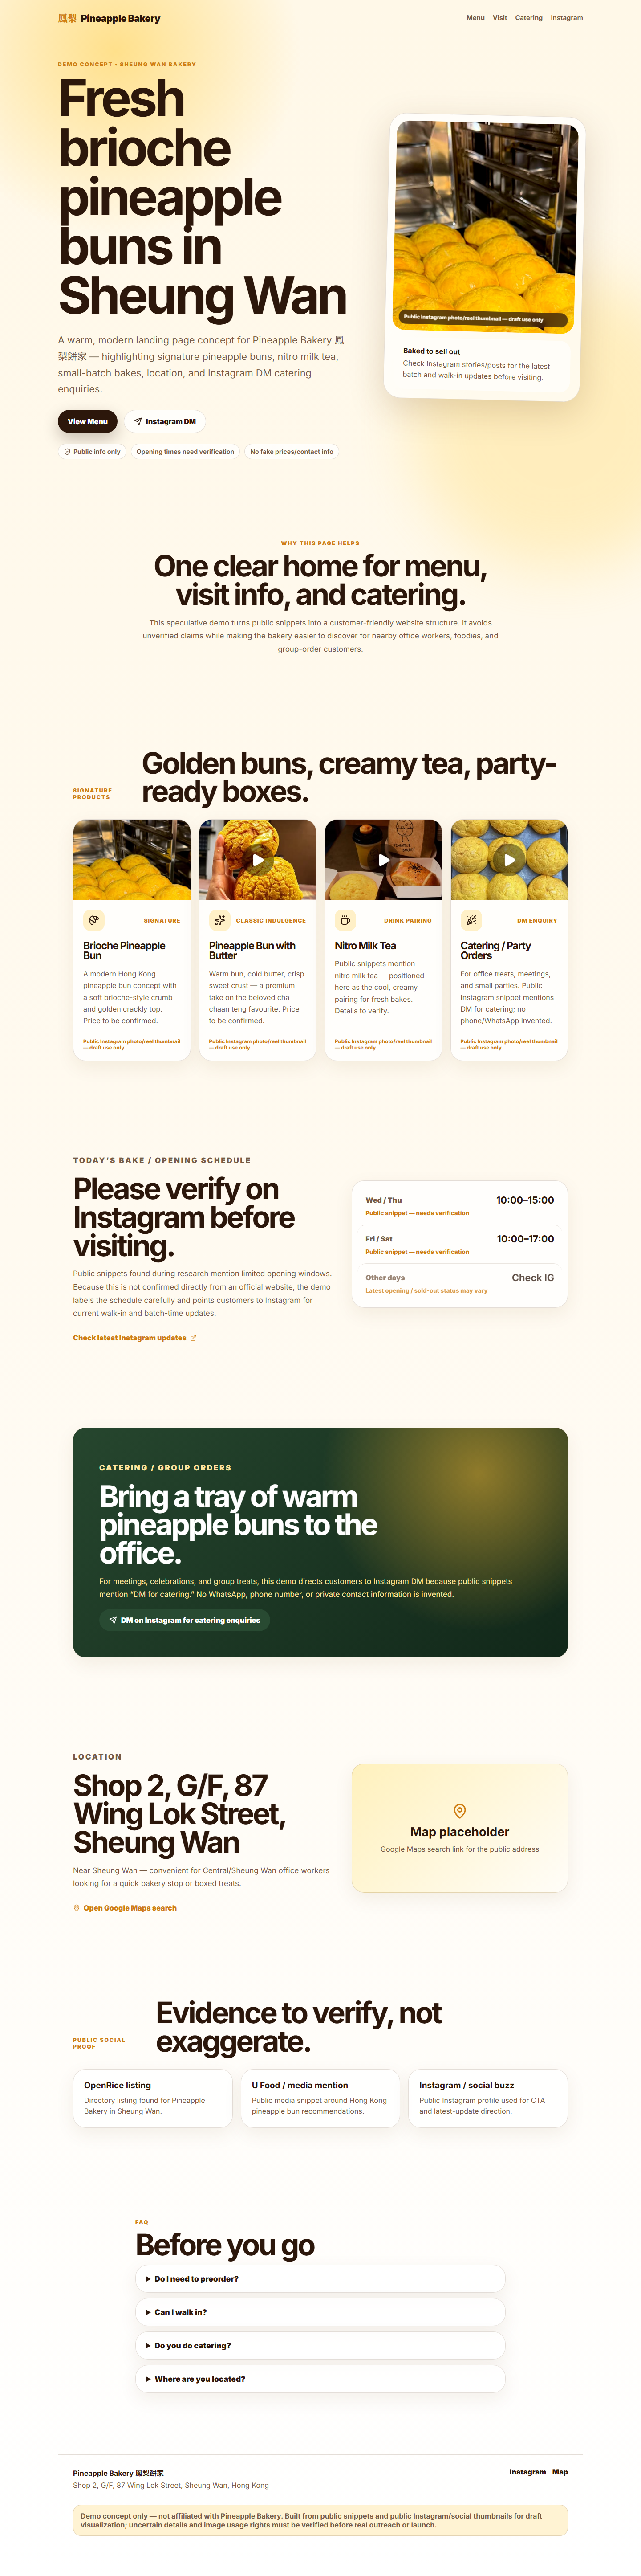
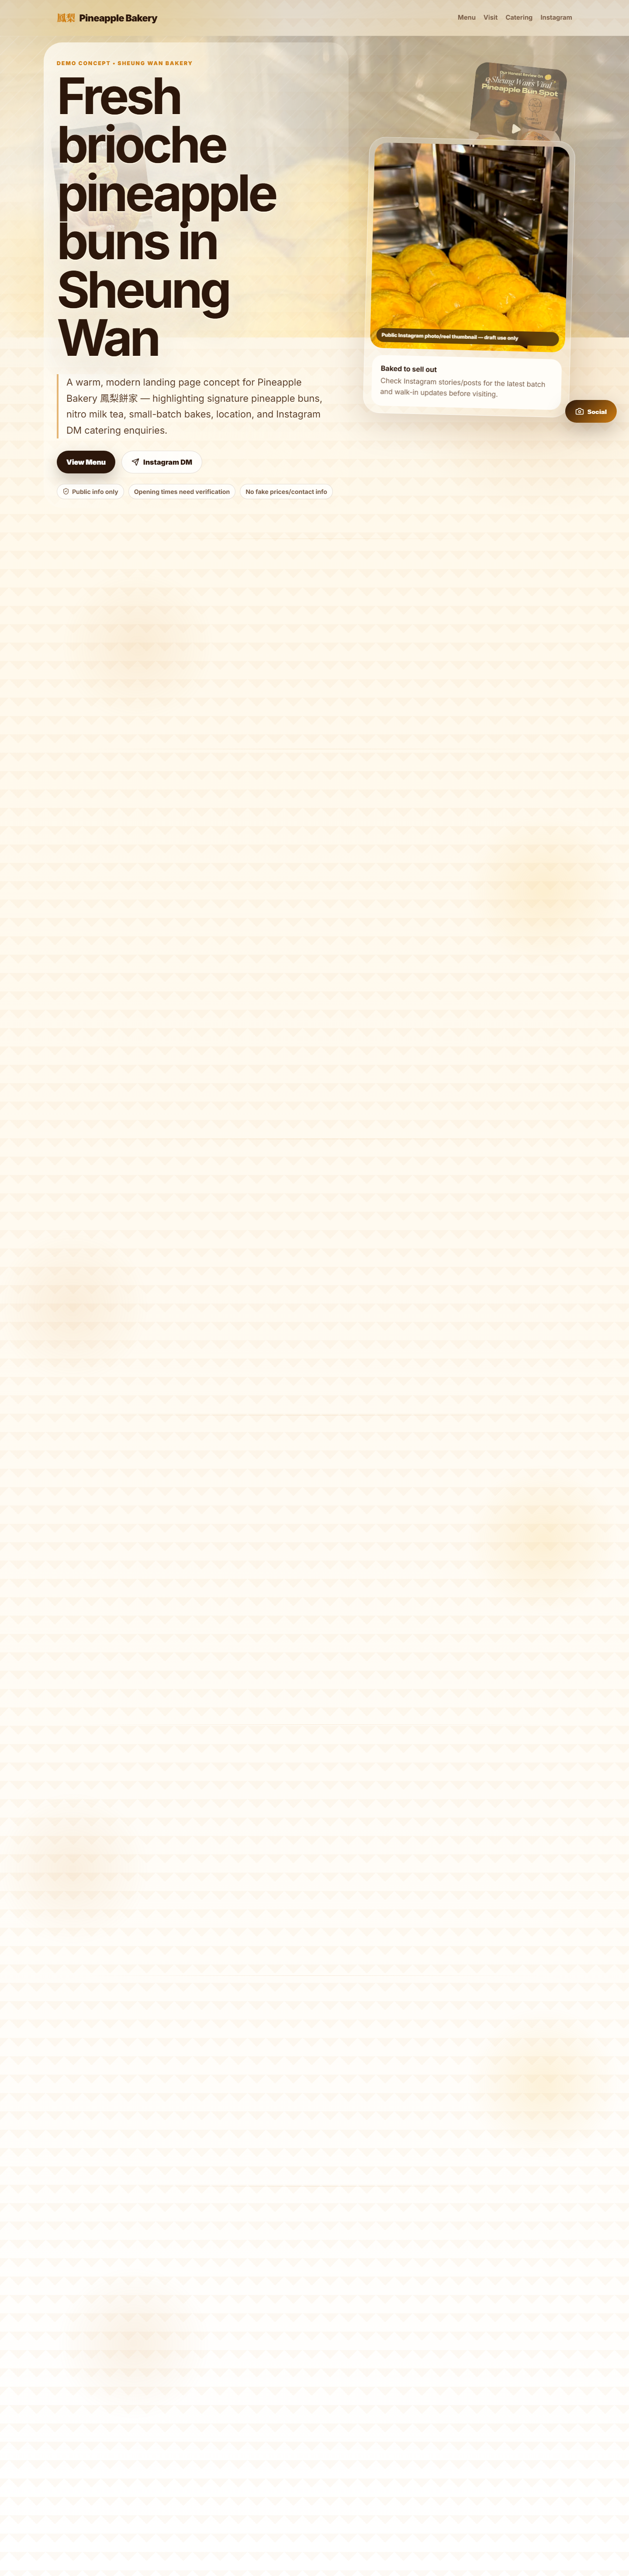
feat: add atmospheric bakery homepage and social menu

diff --git a/src/styles.css b/src/styles.css
@@ -15,12 +15,40 @@
 
 * { box-sizing: border-box; }
 html { scroll-behavior: smooth; }
-body { margin: 0; font-family: Inter, system-ui, sans-serif; color: var(--ink); background: radial-gradient(circle at 18% 2%, #ffe08b 0, transparent 26rem), linear-gradient(180deg, var(--cream) 0%, #fffaf0 48%, #fff 100%); }
+body { margin: 0; font-family: Inter, system-ui, sans-serif; color: var(--ink); background:
+  radial-gradient(circle at 18% 2%, rgba(255, 224, 139, .72) 0, transparent 25rem),
+  radial-gradient(circle at 86% 14%, rgba(207, 125, 18, .16) 0, transparent 22rem),
+  linear-gradient(135deg, rgba(207,125,18,.045) 25%, transparent 25%) 0 0 / 42px 42px,
+  linear-gradient(225deg, rgba(207,125,18,.045) 25%, transparent 25%) 0 0 / 42px 42px,
+  linear-gradient(180deg, var(--cream) 0%, #fffaf0 48%, #fff 100%); }
 a { color: inherit; }
 main { overflow: hidden; }
 
-.hero { min-height: 92vh; padding: 24px clamp(18px, 5vw, 68px) 72px; position: relative; }
-.hero::after { content: ''; position: absolute; inset: auto -10vw -12vw auto; width: 46vw; height: 46vw; background: #ffd75f; filter: blur(70px); opacity: .32; border-radius: 50%; z-index: -1; }
+.social-float { position: fixed; right: clamp(14px, 3vw, 28px); bottom: clamp(16px, 3vw, 28px); z-index: 40; display: grid; justify-items: end; gap: 10px; }
+.social-trigger { border: 0; cursor: pointer; min-width: 118px; height: 52px; display: inline-flex; align-items: center; justify-content: center; gap: 8px; border-radius: 999px; color: #fffaf0; background: linear-gradient(135deg, #2c170b, #cf7d12); box-shadow: 0 18px 48px rgba(44,23,11,.28); font-weight: 900; letter-spacing: -.01em; }
+.social-menu { width: min(310px, calc(100vw - 32px)); padding: 10px; border-radius: 26px; background: rgba(255,253,248,.9); border: 1px solid rgba(88,48,17,.14); box-shadow: 0 24px 80px rgba(44,23,11,.22); backdrop-filter: blur(18px); opacity: 0; transform: translateY(12px) scale(.96); pointer-events: none; transform-origin: bottom right; transition: opacity .22s ease, transform .22s cubic-bezier(.2,.8,.2,1); }
+.social-float:hover .social-menu, .social-float:focus-within .social-menu { opacity: 1; transform: translateY(0) scale(1); pointer-events: auto; }
+.social-float:hover .social-trigger, .social-float:focus-within .social-trigger { box-shadow: 0 22px 62px rgba(207,125,18,.32); }
+.social-menu a { display: grid; grid-template-columns: 38px 1fr; gap: 10px; align-items: center; padding: 10px; border-radius: 18px; text-decoration: none; color: var(--ink); }
+.social-menu a:hover, .social-menu a:focus { background: rgba(242,182,50,.15); outline: none; }
+.social-menu a > svg { color: var(--deep-gold); }
+.social-menu span { display: grid; gap: 2px; }
+.social-menu strong { font-size: .95rem; }
+.social-menu small { color: var(--muted); font-weight: 700; line-height: 1.25; }
+
+.hero { min-height: 92vh; padding: 24px clamp(18px, 5vw, 68px) 72px; position: relative; isolation: isolate; background:
+  linear-gradient(180deg, rgba(44,23,11,.14), rgba(44,23,11,.02) 38%, transparent 100%),
+  radial-gradient(circle at 24% 30%, rgba(255,255,255,.58) 0, transparent 22rem),
+  radial-gradient(circle at 72% 22%, rgba(242,182,50,.28) 0, transparent 24rem); }
+.hero::before { content: ''; position: absolute; inset: 82px 0 auto; height: min(74vh, 690px); z-index: -3; background:
+  linear-gradient(90deg, rgba(255,248,232,.88), rgba(255,248,232,.52) 34%, rgba(255,248,232,.14) 60%, rgba(44,23,11,.32)),
+  url('/pineapple-bakery-demo/social/official-brioche-pineapple-buns.jpg') center / cover;
+  opacity: .26; filter: saturate(1.05) contrast(1.02); }
+.hero::after { content: ''; position: absolute; inset: 82px 0 auto; height: min(74vh, 690px); z-index: -2; background:
+  radial-gradient(circle at 18% 50%, rgba(255,253,248,.82), transparent 22rem),
+  radial-gradient(circle at 12% 72%, rgba(242,182,50,.38), transparent 16rem),
+  radial-gradient(circle at 84% 22%, rgba(255,248,232,.72), transparent 17rem),
+  repeating-linear-gradient(135deg, rgba(255,255,255,.18) 0 2px, transparent 2px 30px); mix-blend-mode: soft-light; }
 .nav { display: flex; align-items: center; justify-content: space-between; gap: 24px; max-width: 1180px; margin: 0 auto 70px; }
 .brand { text-decoration: none; font-weight: 900; letter-spacing: -.03em; font-size: clamp(1.1rem, 2vw, 1.35rem); }
 .brand span { font-family: 'Noto Serif HK', serif; color: var(--deep-gold); margin-right: 6px; }
@@ -28,13 +56,20 @@ main { overflow: hidden; }
 .nav-links a { text-decoration: none; }
 .nav-links a:hover { color: var(--deep-gold); }
 
-.hero-grid { max-width: 1180px; margin: 0 auto; display: grid; grid-template-columns: minmax(0, 1.08fr) minmax(310px, .72fr); gap: clamp(28px, 6vw, 74px); align-items: center; }
+.hero-grid { max-width: 1180px; margin: 0 auto; display: grid; grid-template-columns: minmax(0, 1.02fr) minmax(310px, .76fr); gap: clamp(28px, 6vw, 74px); align-items: center; position: relative; z-index: 2; }
+.hero-bg-gallery { pointer-events: none; position: absolute; inset: 120px max(18px, 5vw) auto; max-width: 1180px; height: min(64vh, 600px); margin: 0 auto; left: 50%; transform: translateX(-50%); width: calc(100% - clamp(36px, 10vw, 136px)); z-index: -1; }
+.tile { position: absolute; width: clamp(92px, 16vw, 210px); height: clamp(128px, 22vw, 290px); object-fit: cover; border-radius: 28px; box-shadow: 0 24px 80px rgba(44,23,11,.20); opacity: .46; filter: saturate(1.02); }
+.tile-one { left: 0; top: 28%; transform: rotate(-7deg); }
+.tile-two { right: 2%; top: 5%; transform: rotate(6deg); }
+.tile-three { right: 16%; bottom: 0; transform: rotate(-4deg); opacity: .38; }
+.hero-copy { max-width: 780px; position: relative; }
+.hero-copy::before { content: ''; position: absolute; inset: -28px -34px -20px -30px; z-index: -1; border-radius: 42px; background: linear-gradient(105deg, rgba(255,253,248,.76), rgba(255,248,232,.38) 56%, rgba(255,248,232,0)); filter: blur(.2px); }
 .eyebrow, .section-kicker { color: var(--deep-gold); font-weight: 900; text-transform: uppercase; letter-spacing: .16em; font-size: .76rem; }
 h1, h2, h3 { margin: 0; letter-spacing: -.055em; line-height: .96; }
-h1 { font-size: clamp(3.2rem, 8vw, 7.8rem); max-width: 820px; }
+h1 { font-size: clamp(3.2rem, 8vw, 7.8rem); max-width: 820px; text-shadow: 0 2px 0 rgba(255,248,232,.9), 0 10px 34px rgba(255,248,232,.92), 0 24px 70px rgba(44,23,11,.18); }
 h2 { font-size: clamp(2rem, 5vw, 4.15rem); }
 h3 { font-size: 1.45rem; }
-.subhead { color: var(--muted); font-size: clamp(1.05rem, 2vw, 1.35rem); line-height: 1.7; max-width: 700px; margin: 28px 0; }
+.subhead { color: #553722; font-size: clamp(1.05rem, 2vw, 1.35rem); line-height: 1.7; max-width: 700px; margin: 28px 0; padding-left: 18px; border-left: 4px solid rgba(207,125,18,.55); background: linear-gradient(90deg, rgba(255,253,248,.74), rgba(255,248,232,.20), rgba(255,248,232,0)); text-shadow: 0 1px 12px rgba(255,253,248,.95); }
 .cta-row { display: flex; flex-wrap: wrap; gap: 14px; margin: 28px 0 24px; }
 .button { border: 0; border-radius: 999px; padding: 15px 22px; font-weight: 900; text-decoration: none; display: inline-flex; align-items: center; justify-content: center; gap: 9px; transition: transform .2s ease, box-shadow .2s ease; }
 .button:hover { transform: translateY(-2px); }
@@ -44,19 +79,24 @@ h3 { font-size: 1.45rem; }
 .trust-strip { display: flex; flex-wrap: wrap; gap: 10px; color: var(--muted); font-size: .88rem; font-weight: 700; }
 .trust-strip span { display: inline-flex; align-items: center; gap: 6px; background: rgba(255,255,255,.72); border: 1px solid var(--line); padding: 8px 12px; border-radius: 999px; }
 
-.hero-card { background: rgba(255,255,255,.72); border: 1px solid var(--line); border-radius: 38px; padding: 16px; box-shadow: var(--shadow); transform: rotate(1.4deg); }
+.hero-card { background: linear-gradient(145deg, rgba(255,255,255,.46), rgba(255,248,232,.22)); border: 1px solid rgba(255,255,255,.56); border-radius: 38px; padding: 12px; box-shadow: var(--shadow); transform: rotate(1.4deg); backdrop-filter: blur(12px); }
 .hero-photo { margin: 0; position: relative; overflow: hidden; border-radius: 28px; min-height: 470px; background: var(--cream-2); }
 .hero-photo img { width: 100%; height: 470px; display: block; object-fit: cover; object-position: center; filter: saturate(1.08) contrast(1.03); }
 .hero-photo figcaption { position: absolute; left: 14px; right: 14px; bottom: 14px; padding: 9px 12px; border-radius: 999px; background: rgba(44,23,11,.74); color: #fff8e8; font-size: .72rem; font-weight: 800; backdrop-filter: blur(8px); }
 .hero-note { margin: 16px 6px 4px; padding: 20px; border-radius: 24px; background: var(--milk); }
 .hero-note p { color: var(--muted); margin: 6px 0 0; line-height: 1.55; }
 
-.section { max-width: 1180px; margin: 0 auto; padding: clamp(54px, 8vw, 96px) clamp(18px, 5vw, 34px); }
+.section { max-width: 1180px; margin: 0 auto; padding: clamp(54px, 8vw, 96px) clamp(18px, 5vw, 34px); position: relative; }
+.section::before { content: ''; position: absolute; inset: 18px clamp(18px, 5vw, 34px) auto; height: 1px; background: linear-gradient(90deg, transparent, rgba(207,125,18,.16), transparent); }
+.section::after { content: ''; position: absolute; pointer-events: none; z-index: -1; width: min(32vw, 360px); height: min(32vw, 360px); border-radius: 999px; background: radial-gradient(circle, rgba(242,182,50,.16), transparent 68%); filter: blur(6px); }
+.section:nth-of-type(odd)::after { right: -8vw; top: 18%; }
+.section:nth-of-type(even)::after { left: -10vw; bottom: 8%; background: radial-gradient(circle, rgba(207,125,18,.10), transparent 68%); }
 .intro { text-align: center; max-width: 880px; }
 .intro p:last-child, .split p, .location p, .catering p { color: var(--muted); font-size: 1.06rem; line-height: 1.75; }
 .section-heading { display: flex; justify-content: space-between; gap: 24px; align-items: end; margin-bottom: 30px; }
 .product-grid, .proof-grid { display: grid; grid-template-columns: repeat(4, 1fr); gap: 18px; }
-.product-card, .proof-grid a, .schedule-card, .catering-card, .map-card, details { background: rgba(255,255,255,.78); border: 1px solid var(--line); border-radius: 28px; box-shadow: 0 14px 42px rgba(105,58,13,.08); }
+.product-card, .proof-grid a, .schedule-card, .catering-card, .map-card, details { background: rgba(255,255,255,.78); border: 1px solid var(--line); border-radius: 28px; box-shadow: 0 14px 42px rgba(105,58,13,.08); transition: transform .45s cubic-bezier(.2,.8,.2,1), box-shadow .45s ease, border-color .45s ease; }
+.product-card:hover, .proof-grid a:hover, .map-card:hover { transform: translateY(-8px); box-shadow: 0 24px 70px rgba(105,58,13,.15); border-color: rgba(207,125,18,.28); }
 .product-card { overflow: hidden; min-height: 390px; display: flex; flex-direction: column; }
 .product-photo { width: 100%; height: 180px; object-fit: cover; display: block; background: var(--cream-2); }
 .product-body { padding: 22px; display: flex; flex-direction: column; flex: 1; }
@@ -97,10 +137,27 @@ footer p { color: var(--muted); margin: 6px 0; }
 .footer-links { display: flex; gap: 14px; font-weight: 900; }
 .disclaimer { grid-column: 1 / -1; background: #fff3d3; border: 1px solid var(--line); border-radius: 18px; padding: 14px 16px; font-weight: 700; }
 
+.reveal-on-scroll { opacity: 0; transform: translateY(34px) scale(.985); filter: blur(8px); transition: opacity .85s ease var(--reveal-delay, 0ms), transform .85s cubic-bezier(.2,.8,.2,1) var(--reveal-delay, 0ms), filter .85s ease var(--reveal-delay, 0ms); will-change: opacity, transform, filter; }
+.reveal-on-scroll.is-visible { opacity: 1; transform: translateY(0) scale(1); filter: blur(0); }
+.product-card.reveal-on-scroll, .proof-grid a.reveal-on-scroll { transform: translateY(42px) scale(.96); }
+.product-card.reveal-on-scroll.is-visible, .proof-grid a.reveal-on-scroll.is-visible { transform: translateY(0) scale(1); }
+.product-card.reveal-on-scroll.is-visible:hover, .proof-grid a.reveal-on-scroll.is-visible:hover { transform: translateY(-8px) scale(1); }
+@media (prefers-reduced-motion: reduce) {
+  html { scroll-behavior: auto; }
+  *, *::before, *::after { animation-duration: .01ms !important; animation-iteration-count: 1 !important; transition-duration: .01ms !important; }
+  .reveal-on-scroll { opacity: 1; transform: none; filter: none; }
+}
+
 @media (max-width: 920px) {
   .nav { align-items: flex-start; margin-bottom: 42px; }
+  .social-float { right: 14px; bottom: 14px; }
+  .social-trigger { min-width: 52px; width: 52px; padding: 0; }
+  .social-trigger span { display: none; }
+  .social-menu { width: min(292px, calc(100vw - 28px)); }
   .nav-links { display: none; }
   .hero-grid, .split, .location { grid-template-columns: 1fr; }
+  .hero-bg-gallery { opacity: .38; height: 52vh; }
+  .tile-three { display: none; }
   .product-grid { grid-template-columns: repeat(2, 1fr); }
   .proof-grid { grid-template-columns: 1fr; }
   .hero-card { transform: none; }

diff --git a/src/main.jsx b/src/main.jsx
@@ -1,6 +1,6 @@
-import React from 'react';
+import React, { useEffect } from 'react';
 import { createRoot } from 'react-dom/client';
-import { Send, MapPin, Coffee, Croissant, Sparkles, ExternalLink, PartyPopper, ShieldCheck } from 'lucide-react';
+import { Send, MapPin, Coffee, Croissant, Sparkles, ExternalLink, PartyPopper, ShieldCheck, Camera, MessageCircle } from 'lucide-react';
 import './styles.css';
 
 const instagramUrl = 'https://www.instagram.com/pineapplebakeryhk/';
@@ -11,6 +11,33 @@ const photoCredit = 'Public Instagram photo/reel thumbnail — draft use only';
 const assetBase = import.meta.env.BASE_URL;
 
 function App() {
+  useEffect(() => {
+    const targets = document.querySelectorAll('.section > .section-kicker, .section > h2, .section > p, .section-heading, .product-card, .split > div, .schedule-card, .catering-card, .location > div, .map-card, .proof-grid a, details, footer');
+
+    if (!('IntersectionObserver' in window)) {
+      targets.forEach((el) => el.classList.add('is-visible'));
+      return;
+    }
+
+    targets.forEach((el, index) => {
+      el.classList.add('reveal-on-scroll');
+      el.style.setProperty('--reveal-delay', `${Math.min(index % 4, 3) * 70}ms`);
+    });
+
+    const observer = new IntersectionObserver((entries) => {
+      entries.forEach((entry) => {
+        if (entry.isIntersecting) {
+          entry.target.classList.add('is-visible');
+        } else if (entry.boundingClientRect.top > window.innerHeight * 0.9) {
+          entry.target.classList.remove('is-visible');
+        }
+      });
+    }, { threshold: 0.18, rootMargin: '0px 0px -8% 0px' });
+
+    targets.forEach((el) => observer.observe(el));
+    return () => observer.disconnect();
+  }, []);
+
   const products = [
     { icon: <Croissant />, title: 'Brioche Pineapple Bun', badge: 'Signature', image: `${assetBase}social/official-brioche-pineapple-buns.jpg`, text: 'A modern Hong Kong pineapple bun concept with a soft brioche-style crumb and golden crackly top. Price to be confirmed.' },
     { icon: <Sparkles />, title: 'Pineapple Bun with Butter', badge: 'Classic indulgence', image: `${assetBase}social/food-reel-pineapple-bun.jpg`, text: 'Warm bun, cold butter, crisp sweet crust — a premium take on the beloved cha chaan teng favourite. Price to be confirmed.' },
@@ -20,6 +47,27 @@ function App() {
 
   return (
     <main>
+      <aside className="social-float" aria-label="Quick social links">
+        <button className="social-trigger" aria-haspopup="true" aria-expanded="false">
+          <Camera size={20}/>
+          <span>Social</span>
+        </button>
+        <div className="social-menu" role="menu">
+          <a role="menuitem" href={instagramUrl} target="_blank" rel="noreferrer">
+            <Camera size={17}/>
+            <span><strong>Instagram</strong><small>Latest bakes / DM catering</small></span>
+          </a>
+          <a role="menuitem" href={openRiceUrl} target="_blank" rel="noreferrer">
+            <MessageCircle size={17}/>
+            <span><strong>OpenRice</strong><small>Public directory listing</small></span>
+          </a>
+          <a role="menuitem" href={mapsUrl} target="_blank" rel="noreferrer">
+            <MapPin size={17}/>
+            <span><strong>Map</strong><small>Sheung Wan address search</small></span>
+          </a>
+        </div>
+      </aside>
+
       <section className="hero" id="top">
         <nav className="nav" aria-label="Primary navigation">
           <a href="#top" className="brand"><span>鳳梨</span> Pineapple Bakery</a>
@@ -30,6 +78,12 @@ function App() {
             <a href={instagramUrl} target="_blank" rel="noreferrer">Instagram</a>
           </div>
         </nav>
+
+        <div className="hero-bg-gallery" aria-hidden="true">
+          <img className="tile tile-one" src={`${assetBase}social/food-reel-pineapple-bun.jpg`} alt="" />
+          <img className="tile tile-two" src={`${assetBase}social/social-reel-milk-tea.jpg`} alt="" />
+          <img className="tile tile-three" src={`${assetBase}social/social-reel-bun-closeup.jpg`} alt="" />
+        </div>
 
         <div className="hero-grid">
           <div className="hero-copy">

diff --git a/vite.config.js b/vite.config.js
@@ -4,4 +4,7 @@ import react from '@vitejs/plugin-react';
 export default defineConfig({
   plugins: [react()],
   base: '/pineapple-bakery-demo/',
+  server: {
+    allowedHosts: true,
+  },
 });